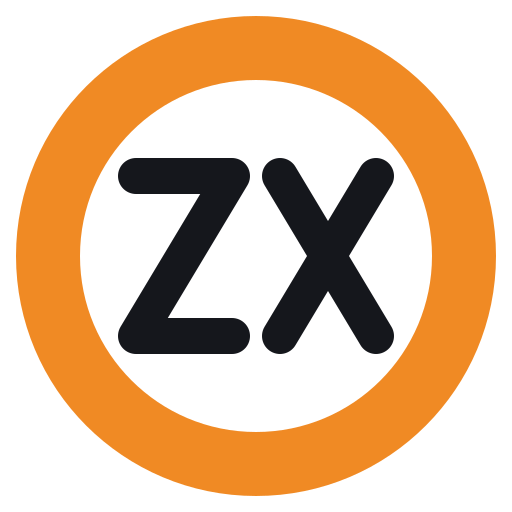
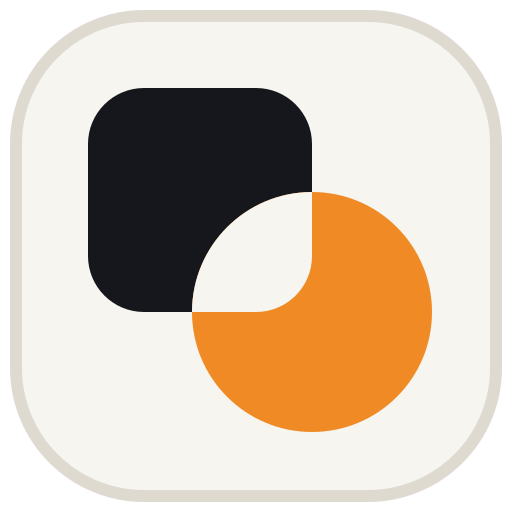
brand: a new mark, an ink square and an orange circle overlapping
Replaces the ZX ring everywhere. The owner asked for a mark drawn from
neither the name nor the metro theme: the square is the system, the
circle is the person and the interface, and the overlap is left blank
(the "from runtime to interface" line). Same paper, ink and orange as the
site.

- favicon.svg and favicon.ico (16/32/48), plus the PNG icon set rendered
  from it with rsvg-convert; the apple-touch icons are full-bleed paper so
  iOS has no transparent corners to fill
- the top bar mark is the same drawing as an inline SVG on both pages
- images/og-card.png re-rendered with the new mark
- the unlinked images/favicon.svg and .ico copies are synced so no old
  ZX mark stays reachable

diff --git a/assets/css/site-2026.css b/assets/css/site-2026.css
@@ -112,7 +112,8 @@ button { font: inherit; color: inherit; }
 .bar { position: sticky; top: 0; z-index: 40; height: var(--bar-h); background: color-mix(in oklab, var(--paper) 86%, transparent); -webkit-backdrop-filter: saturate(1.3) blur(12px); backdrop-filter: saturate(1.3) blur(12px); border-bottom: 1px solid var(--rule); }
 .bar .wrap { height: 100%; display: flex; align-items: center; justify-content: space-between; gap: 20px; }
 .brand { display: inline-flex; align-items: center; gap: 12px; text-decoration: none; font-weight: 600; font-size: 15.5px; letter-spacing: -.01em; }
-.mark { width: 34px; height: 34px; border-radius: 50%; border: 4px solid var(--A); background: var(--card); display: grid; place-items: center; font: 700 11.5px/1 var(--font); letter-spacing: -.03em; }
+/* the mark: an ink square and an orange circle overlapping (same drawing as favicon.svg) */
+.mark { width: 34px; height: 34px; flex: none; display: block; }
 .bar-right { display: flex; align-items: center; gap: 8px; }
 .nav { display: flex; align-items: center; gap: 2px; }
 .nav a { display: inline-flex; align-items: center; gap: 8px; padding: 8px 10px; border-radius: 8px; font-size: 14.5px; font-weight: 500; color: var(--mute); text-decoration: none; transition: color .2s, background-color .2s; }

diff --git a/_includes/site-2026/bar.html b/_includes/site-2026/bar.html
@@ -1,6 +1,6 @@
 <header class="bar">
   <div class="wrap">
-    <a class="brand" href="{% if include.nav %}#top{% else %}/{% endif %}" aria-label="Zichuan Xu, {% if include.nav %}back to top{% else %}home{% endif %}"><span class="mark" aria-hidden="true">ZX</span>Zichuan Xu</a>
+    <a class="brand" href="{% if include.nav %}#top{% else %}/{% endif %}" aria-label="Zichuan Xu, {% if include.nav %}back to top{% else %}home{% endif %}"><svg class="mark" viewBox="0 0 64 64" aria-hidden="true" focusable="false"><defs><clipPath id="mark-clip"><rect x="11" y="11" width="28" height="28" rx="7"/></clipPath></defs><rect x="2" y="2" width="60" height="60" rx="16" fill="#F6F5F0" stroke="#DEDAD0" stroke-width="1.5"/><rect x="11" y="11" width="28" height="28" rx="7" fill="#15171C"/><circle cx="39" cy="39" r="15" fill="#F08A24"/><circle cx="39" cy="39" r="15" fill="#F6F5F0" clip-path="url(#mark-clip)"/></svg>Zichuan Xu</a>
     <div class="bar-right">
       {%- if include.nav %}
       <nav class="nav" aria-label="Sections">
